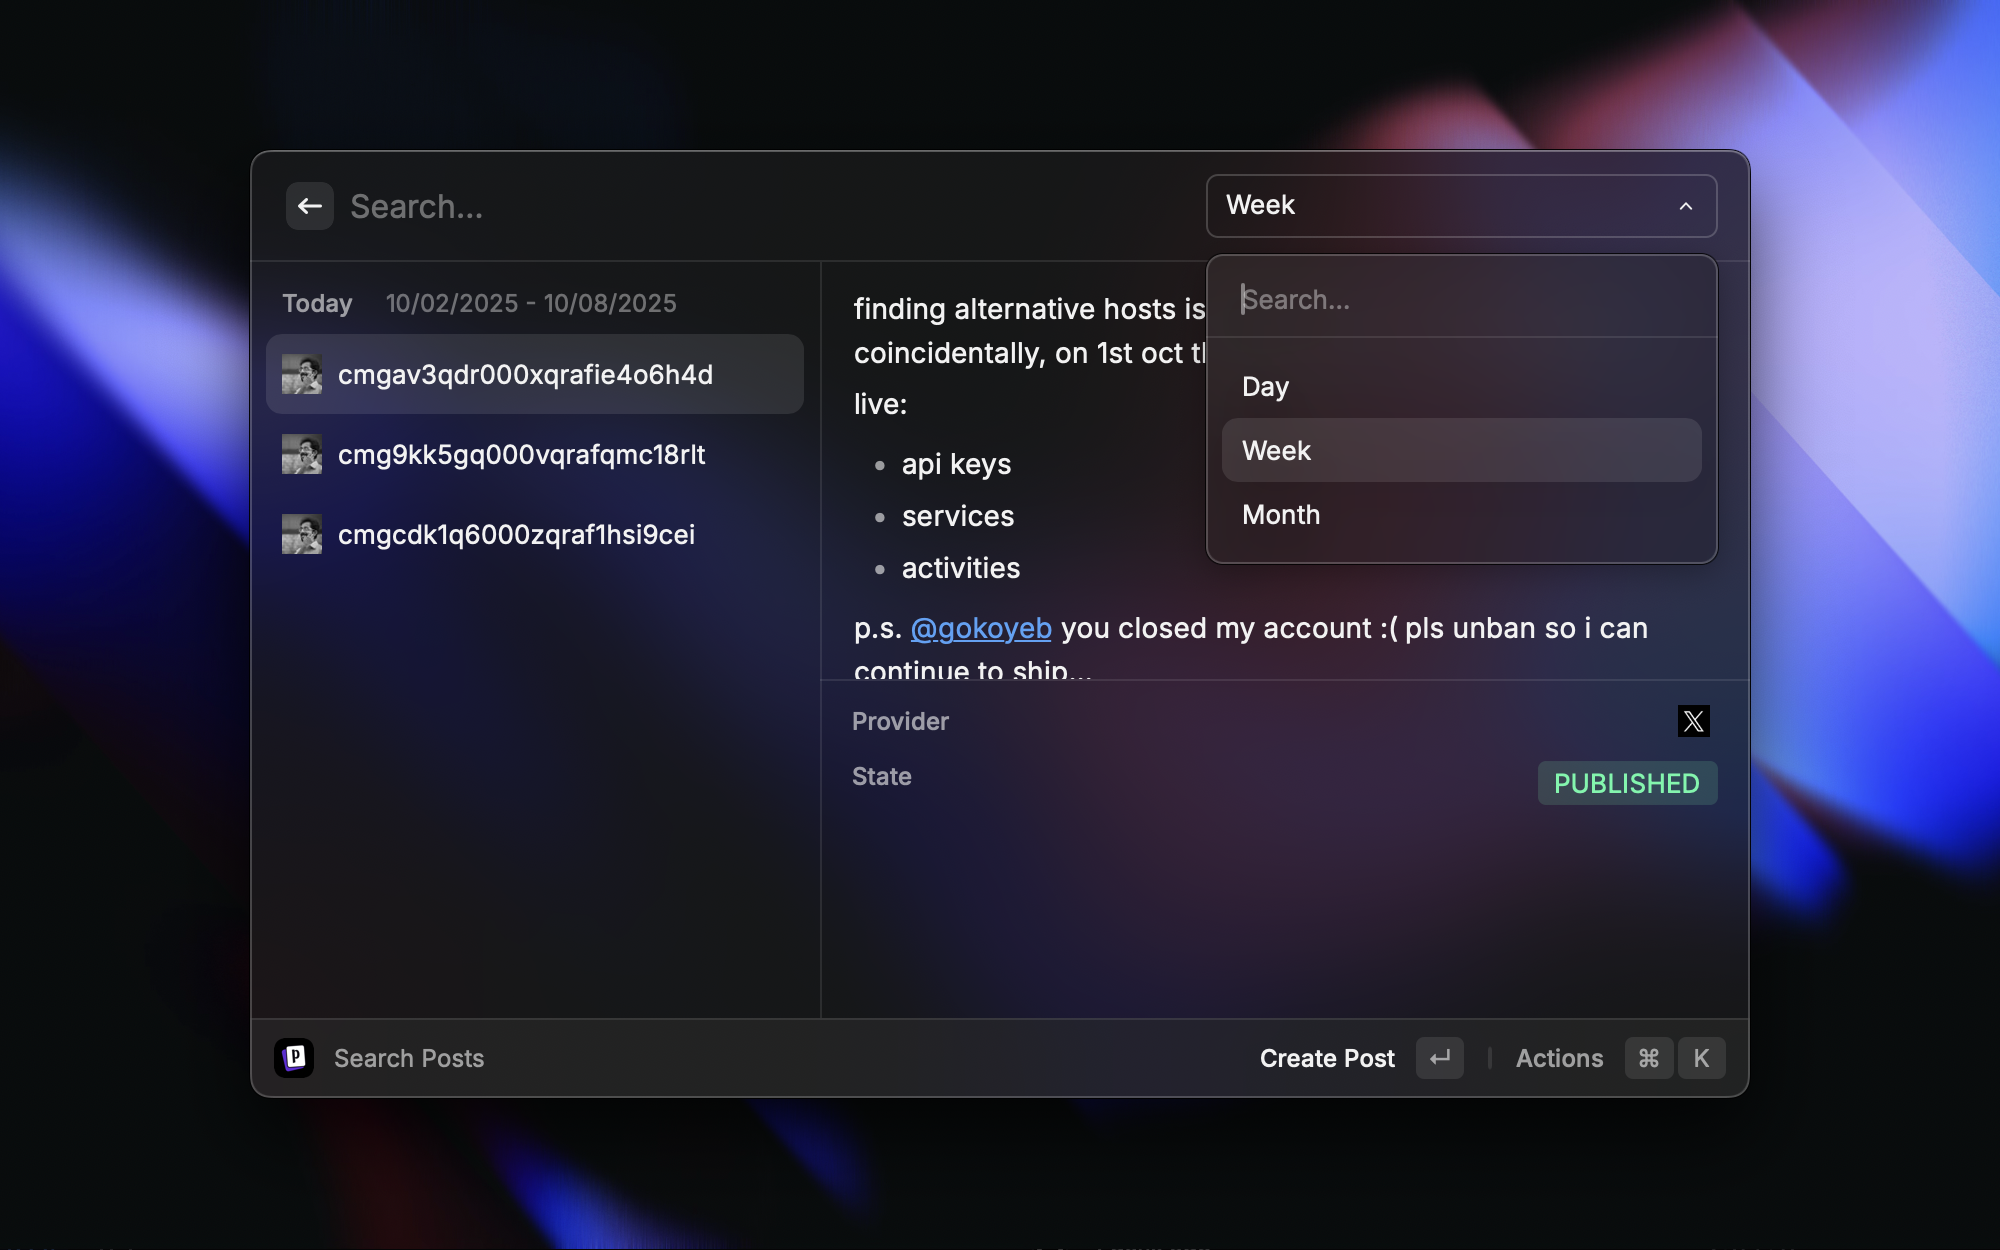
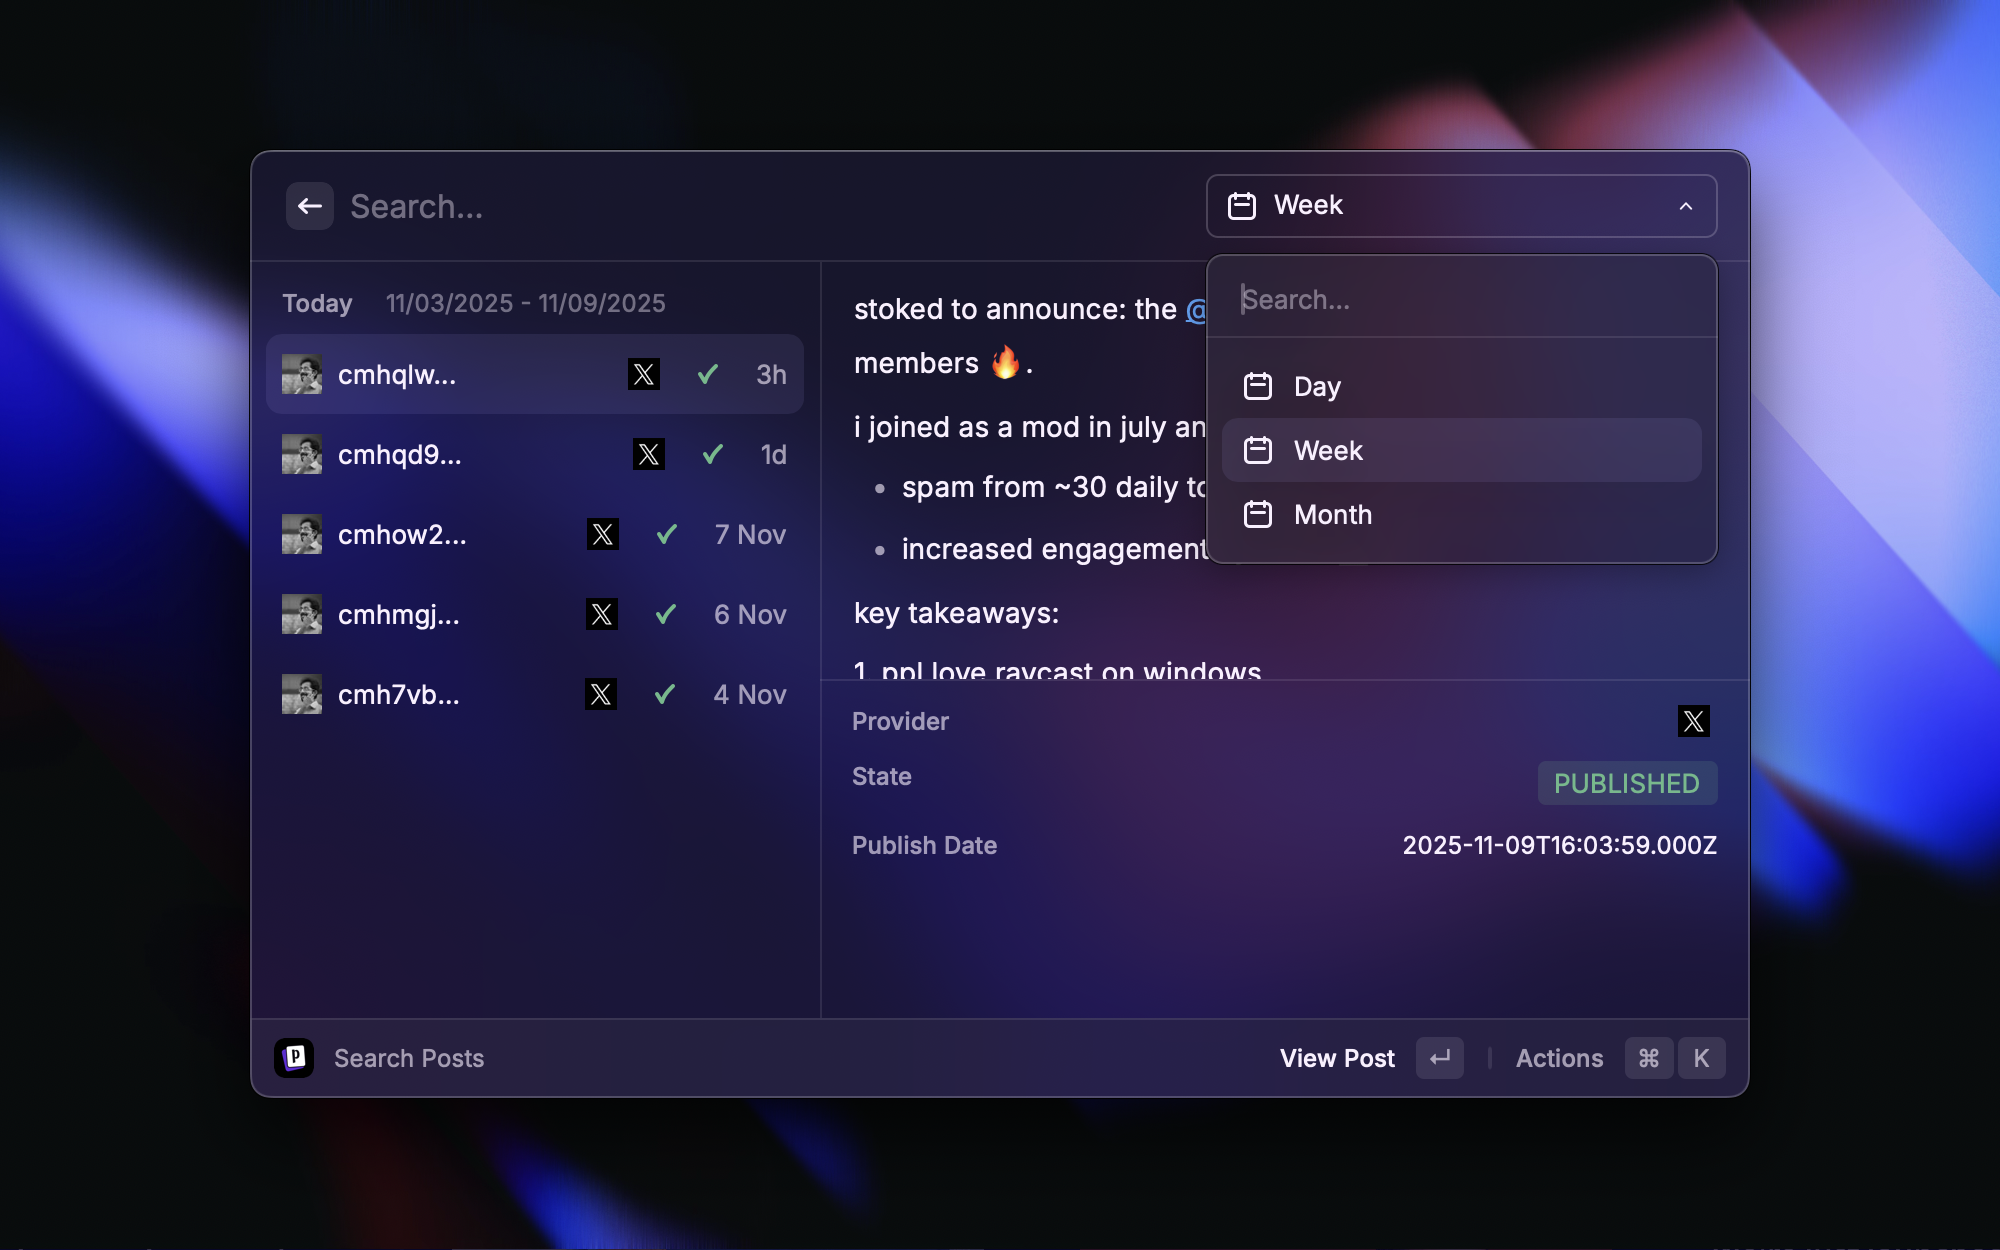
[Postiz] v2 month till EoM + posts in markdown (#22774)
* [Postiz] month till EoM + posts in markdown

* [Postiz] 🤖

* Update CHANGELOG.md and optimise images

---------

diff --git a/extensions/postiz/src/search-posts.tsx b/extensions/postiz/src/search-posts.tsx
@@ -12,7 +12,7 @@ import {
   Toast,
 } from "@raycast/api";
 import { useMemo, useState } from "react";
-import { compareDesc, endOfDay, format, getISOWeek, startOfMonth, subDays } from "date-fns";
+import { compareDesc, endOfMonth, format, getISOWeek, startOfMonth, subDays } from "date-fns";
 import { useFetch } from "@raycast/utils";
 import {
   buildPostizApiUrl,
@@ -24,37 +24,42 @@ import {
 } from "./postiz";
 import { Identifier, Post } from "./types";
 import CreatePost from "./create-post";
+import TurndownService from "turndown";
 
 const { postiz_version } = getPreferenceValues<Preferences>();
 
+const turndownService = new TurndownService();
 const generateMarkdown = (post: Post) => {
   switch (post.integration.providerIdentifier) {
     case Identifier.X:
       return post.content
         .replace(/@(\w+)/g, (match, handle) => {
-          return `[${match}](https://x.com/${handle})`;
+          return postiz_version === "1"
+            ? `[${match}](https://x.com/${handle})`
+            : `<a href="https://x.com/${handle}">${match}</a>`;
         })
         .replace(/#(\w+)/g, (match, hashtag) => {
-          return `[${match}](https://x.com/hashtag/${hashtag})`;
+          return postiz_version === "1"
+            ? `[${match}](https://x.com/hashtag/${hashtag})`
+            : `<a href="https://x.com/hashtag/${hashtag}">${match}</a>`;
         });
     default:
       return post.content;
   }
 };
 const getProviderIdentifierIcon = (providerIdentifier: string) => `platforms/${providerIdentifier}.png`;
-
 export default function SearchPosts() {
   type Display = "day" | "week" | "month";
   const [display, setDisplay] = useState<Display>("week");
   const date = useMemo(() => new Date(), []);
-  const startDate = useMemo(() => {
+  const { startDate, endDate } = useMemo(() => {
     switch (display) {
       case "day":
-        return date;
+        return { startDate: date, endDate: date };
       case "week":
-        return subDays(date, 6);
+        return { startDate: subDays(date, 6), endDate: date };
       case "month":
-        return startOfMonth(date);
+        return { startDate: startOfMonth(date), endDate: endOfMonth(date) };
     }
   }, [date, display]);
 
@@ -76,7 +81,7 @@ export default function SearchPosts() {
           }
         : {
             startDate: startDate.toISOString(),
-            endDate: endOfDay(date).toISOString(),
+            endDate: endDate.toISOString(),
           },
     ),
     {
@@ -129,7 +134,7 @@ export default function SearchPosts() {
       toast.message = `${error}`;
     }
   };
-  const subtitle = `${format(postiz_version === "1" ? subDays(date, 6) : startDate, "MM/dd/yyyy")} - ${format(date, "MM/dd/yyyy")}`;
+  const subtitle = `${format(postiz_version === "1" ? subDays(date, 6) : startDate, "MM/dd/yyyy")} - ${format(endDate, "MM/dd/yyyy")}`;
   return (
     <List
       isLoading={isLoading}
@@ -161,7 +166,9 @@ export default function SearchPosts() {
             ]}
             detail={
               <List.Item.Detail
-                markdown={generateMarkdown(post)}
+                markdown={
+                  postiz_version === "1" ? generateMarkdown(post) : turndownService.turndown(generateMarkdown(post))
+                }
                 metadata={
                   <List.Item.Detail.Metadata>
                     <List.Item.Detail.Metadata.Label
@@ -189,6 +196,11 @@ export default function SearchPosts() {
                   icon={Icon.Eye}
                   title="Preview Post"
                   url={buildPostizPlatformUrl(`p/${post.id}`)}
+                />
+                <Action.CopyToClipboard
+                  title="Share with a Client"
+                  content={buildPostizPlatformUrl(`p/${post.id}`)}
+                  shortcut={Keyboard.Shortcut.Common.Copy}
                 />
                 <Action.Push
                   icon={Icon.Plus}

diff --git a/extensions/postiz/CHANGELOG.md b/extensions/postiz/CHANGELOG.md
@@ -1,5 +1,11 @@
 # Postiz Changelog
 
+## [View Post as Markdown + Month Display Extends till EoM] - 2025-11-09
+
+- Posts are now shown in **markdown** to give a better idea
+- Post preview links can be copied for easy sharing
+- v2 "Month" now shows posts including end-of-month
+
 ## [Fix Creation Failing + Post Enhancements] - 2025-10-24
 
 ### Search Posts
